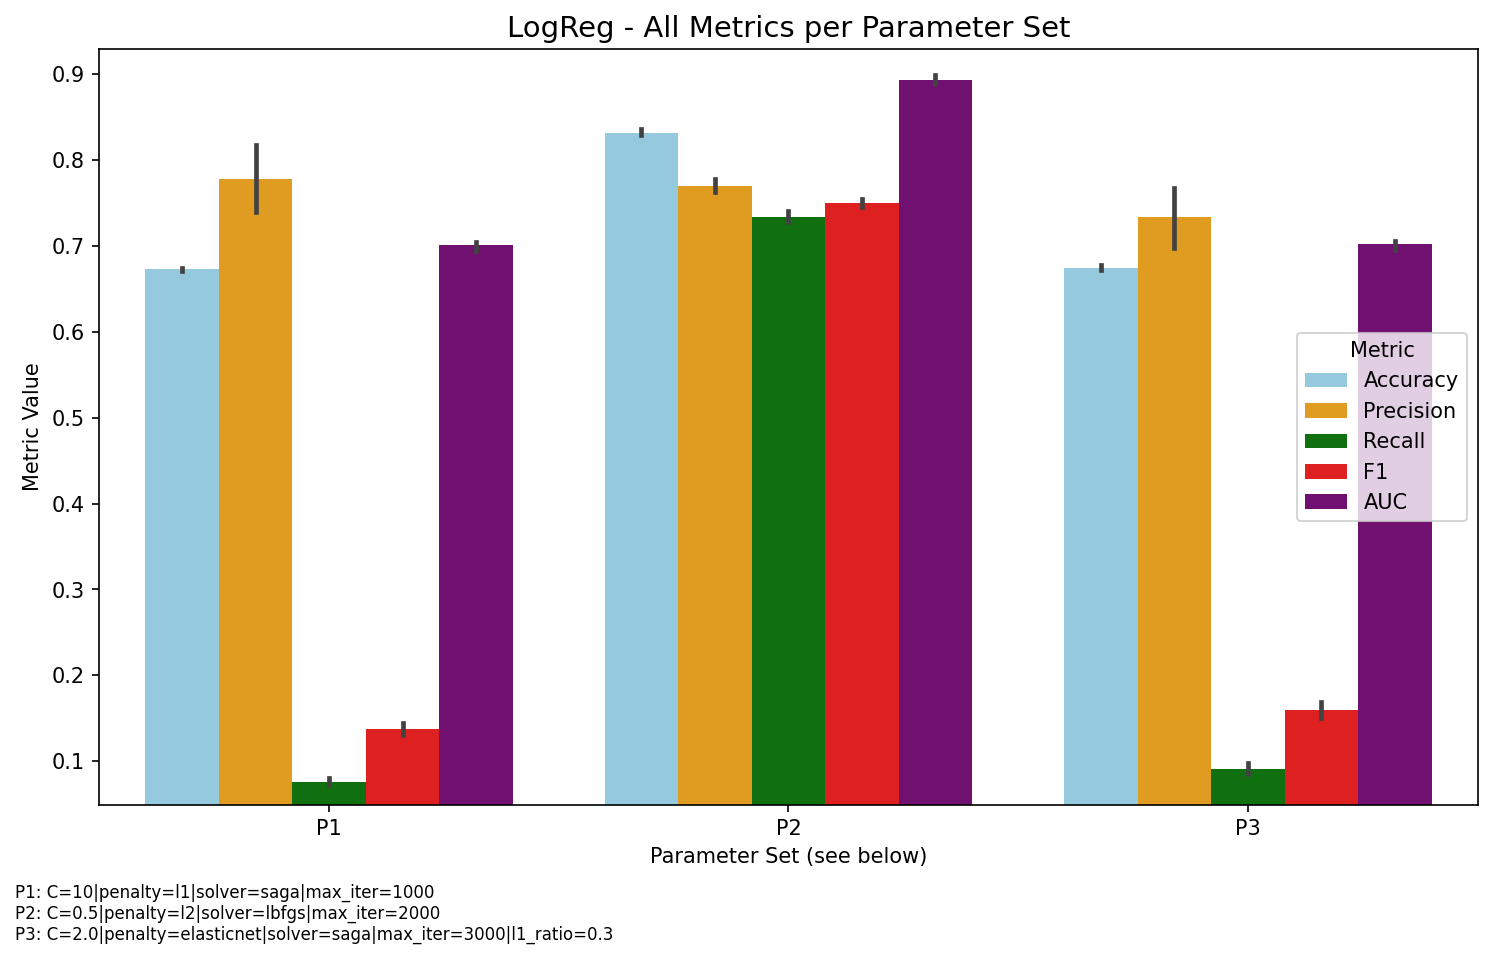
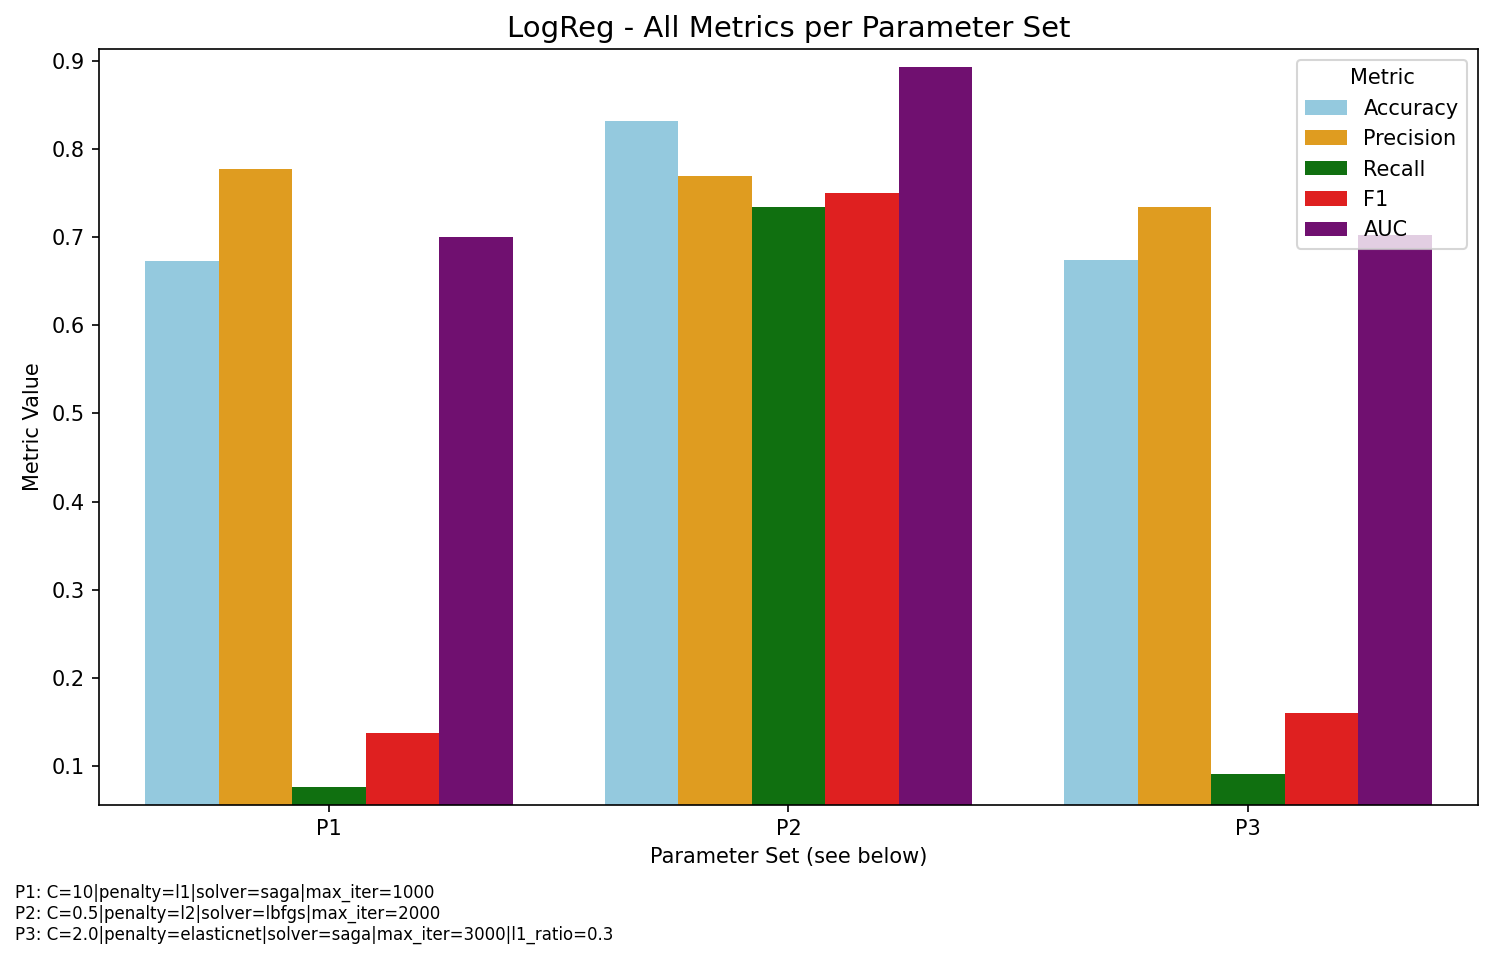
new plots

diff --git a/scripts/data_analysis.py b/scripts/data_analysis.py
@@ -184,18 +184,27 @@ def assign_param_codes(df):
 def plot_model_metrics():
     """
     For each model, plot all metrics in the same figure per parameter set (ParamCode),
-    using consistent colors for each metric.
+    using consistent colors for each metric. Prints one line per ParamCode actually used in the plot.
     """
     metrics_cols = ["Accuracy", "Precision", "Recall", "F1", "AUC"]
-    colors = ["skyblue", "orange", "green", "red", "purple"]  # same as before
+    colors = ["skyblue", "orange", "green", "red", "purple"]
 
     for model in df_classification["Model"].unique():
         subset = df_classification[df_classification["Model"] == model].copy()
-        param_mapping = assign_param_codes(subset)  # maps full params to short codes
-        print(f"Generating combined plot for model: {model}")
+        param_mapping = assign_param_codes(subset)
+        print(f"\nGenerating combined plot for model: {model}")
 
-        # Melt the DataFrame for seaborn
-        plot_df = subset.melt(
+        # Aggregate by ParamCode to remove duplicates (mean metrics)
+        subset_agg = subset.groupby("ParamCode", as_index=False)[metrics_cols].mean()
+        subset_agg["Params"] = subset.groupby("ParamCode")["Params"].first().values
+
+        # Print one line per ParamCode
+        for idx, row in subset_agg.iterrows():
+            metrics_str = ", ".join([f"{metric}={row[metric]:.3f}" for metric in metrics_cols])
+            print(f"ParamCode {row['ParamCode']} ({row['Params']}): {metrics_str}")
+
+        # Melt for plotting
+        plot_df = subset_agg.melt(
             id_vars=["ParamCode"], 
             value_vars=metrics_cols,
             var_name="Metric",
@@ -214,23 +223,20 @@ def plot_model_metrics():
         plt.ylabel("Metric Value")
         plt.xlabel("Parameter Set (see below)")
 
-        # Adjust y-axis
         y_min = max(0, plot_df["Value"].min() - 0.02)
         y_max = min(1, plot_df["Value"].max() + 0.02)
         plt.ylim(y_min, y_max)
 
-        # Show parameter legend under the plot
         legend_text = "\n".join([f"{code}: {full}" for full, code in param_mapping.items()])
         plt.figtext(0.01, -0.05, legend_text, ha="left", fontsize=8, wrap=True)
 
         plt.tight_layout()
-
-        # Save figure
         filename = f"{model}_all_metrics.png".replace(" ", "_")
         file_path = os.path.join(PLOT_DIR, filename)
         plt.savefig(file_path, dpi=150, bbox_inches="tight")
         plt.close()
         print(f"✅ Saved: {file_path}")
+
 
 # Plot confusion matrices per model
 def plot_confusion_matrices():
@@ -638,6 +644,20 @@ def plot_best_confusion_matrices():
 
         # Retrieve confusion matrix
         cm_flat = best_row["CM"]  # assumed [TN, FP, FN, TP]
+
+        # ==== PRINT VALUES USED ====
+        print("\n" + "="*70)
+        print(f"📌 BEST RESULTS FOR MODEL: {model}")
+        print("="*70)
+        print(f"Method: {best_row['Method']}")
+        print(f"Params: {best_row['Params_str']}\n")
+
+        print(f"Confusion Matrix Values:")
+        print(f" TN = {cm_flat[0]}")
+        print(f" FP = {cm_flat[1]}")
+        print(f" FN = {cm_flat[2]}")
+        print(f" TP = {cm_flat[3]}\n")
+        
         cm = np.array(cm_flat).reshape(2, 2)
 
         plt.figure(figsize=(10, 5))
